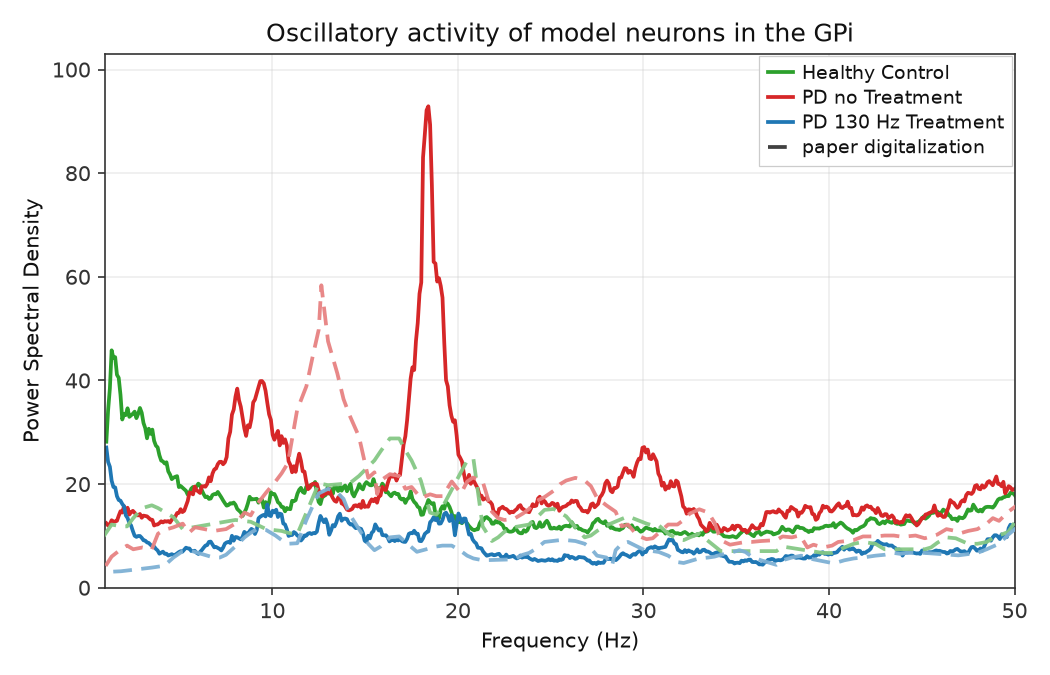
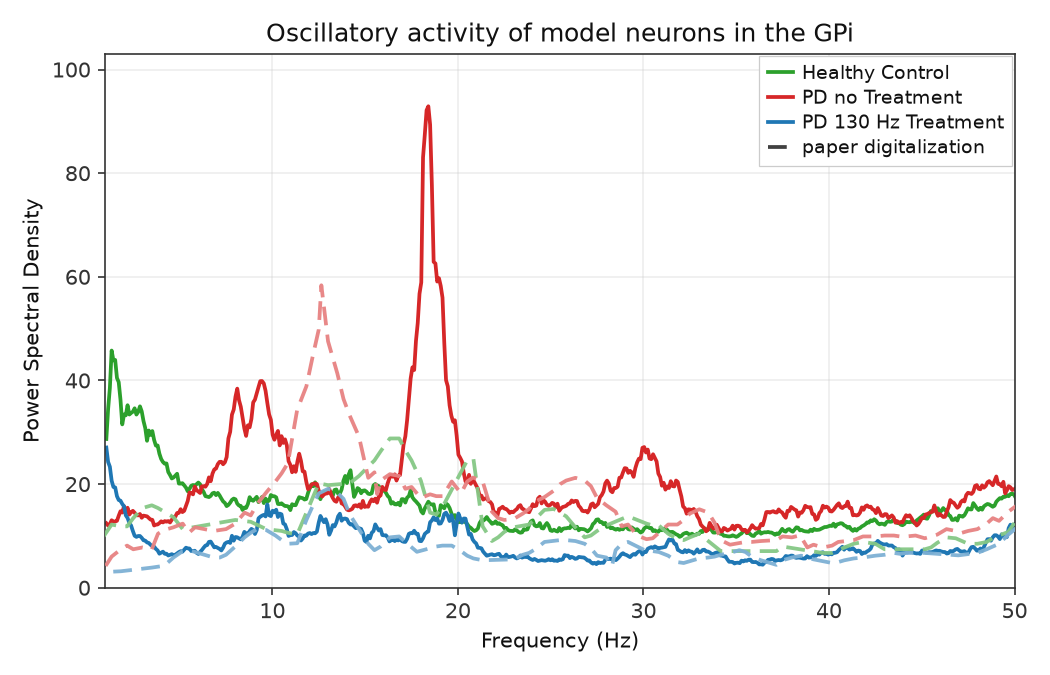
Rerun Mehregan Fig 1b on the healthy-mode init draws (rep v3)
Healthy beta 13.38 -> 13.29 (paper 15.3); the same five gates fail.

diff --git a/figures/mehregan/replications.md b/figures/mehregan/replications.md
@@ -7,7 +7,7 @@ Side-by-side **paper panel** vs **our replication**. Plot scripts write replicat
 <!-- summary:start -->
 | Panel | Description | Status |
 |-------|-------------|--------|
-| Fig 1b | GPi PSD | Fail (`healthy_pd_ratio_near_paper`, rep v2) |
+| Fig 1b | GPi PSD | Fail (`healthy_pd_ratio_near_paper`, rep v3) |
 | Fig 2a | GPi $P_\beta$ time series | Pass (rep v1) |
 | Fig 2b | Error Index time series | Pass (rep v18) |
 | Fig 4a | Training $P_\beta$ vs step | Pass (paper Alg. 1, rep v44) |
@@ -32,18 +32,18 @@ Mean GPi multitaper power spectral density (1–50 Hz) for three conditions: **h
 
 ### Replication
 
-![Replication Fig 1b](images/1b/gpi_psd_v2.png)
+![Replication Fig 1b](images/1b/gpi_psd_v3.png)
 
 <!-- caption-1b:start -->
-**Caption:** GPi PSD, 10 s sim, seeds 0–9 mean; β[13–35 Hz] healthy/PD/130 Hz = 13.4/22.2/8.1 (paper 15.3/17.7/7.9); PD peak 19 Hz (paper 13), v2, 2026-10-17
+**Caption:** GPi PSD, 10 s sim, seeds 0–9 mean; β[13–35 Hz] healthy/PD/130 Hz = 13.3/22.2/8.1 (paper 15.3/17.7/7.9); PD peak 19 Hz (paper 13), v3, 2026-10-18
 
 **Manifest:** `artifacts/figures/papers/mehregan/1b/manifest.json`
 <!-- caption-1b:end -->
 
-**Status:** Fail (upgraded gates, fresh run rep v2, Oct 17 2026) — beta-band ordering and the 130 Hz and healthy levels match (β healthy / PD / 130 Hz 13.4 / 22.2 / 8.1 vs paper 15.3 / 17.7 / 7.9), but our PD spectrum peaks at 18.5 Hz vs the paper's 12.6 Hz and its shape correlates poorly (r 0.19), the healthy/PD ratio sits at the 30% edge, and healthy / 130 Hz carry excess 1–12 Hz power. Seven spectral estimators (`scripts/probes/mehregan_fig1b_estimator.py`) and four candidate readings (`--dt-ms 0.02`, `--transient-s` on 30 s, seed 0 only, `--signal voltage`) all keep the PD peak at 18.4–18.8 Hz, so the gap is in our plant's PD dynamics, not the estimator or protocol — an author question.
+**Status:** Fail (upgraded gates, fresh run rep v3, Oct 18 2026, healthy runs now on pd=0 init draws) — beta-band ordering and the 130 Hz and healthy levels match (β healthy / PD / 130 Hz 13.3 / 22.2 / 8.1 vs paper 15.3 / 17.7 / 7.9), but our PD spectrum peaks at 18.5 Hz vs the paper's 12.6 Hz and its shape correlates poorly (r 0.19), the healthy/PD ratio sits at the 30% edge, and healthy / 130 Hz carry excess 1–12 Hz power. Seven spectral estimators (`scripts/probes/mehregan_fig1b_estimator.py`) and four candidate readings (`--dt-ms 0.02`, `--transient-s` on 30 s, seed 0 only, `--signal voltage`) all keep the PD peak at 18.4–18.8 Hz, so the gap is in our plant's PD dynamics, not the estimator or protocol — an author question.
 
 <!-- gates-1b:start -->
-**Gates set** (`fig1b_gates` → manifest `gates` / `gates_pass`). Overall **`gates_pass`**: no (from `artifacts/figures/papers/mehregan/1b/curves.json`, 2026-10-17). Every row is required for exit.
+**Gates set** (`fig1b_gates` → manifest `gates` / `gates_pass`). Overall **`gates_pass`**: no (from `artifacts/figures/papers/mehregan/1b/curves.json`, 2026-10-18). Every row is required for exit.
 
 | Key | Description | Pass |
 |-----|-------------|------|
@@ -92,7 +92,7 @@ GPi beta-band power ($P_\beta$, Eq. 1, 13–35 Hz) over **12 s**: **PD no treatm
 **Status:** Pass — every upgraded gate (pre-onset level 510 vs paper 478, late ratio 0.35 vs 0.42, half-drop 2.76 s vs 2.90 s, treated and gap shape r ≥ 0.7). Since Oct 17 2026 the traces come from the Fig 5a eval protocol (`--protocol eval`, default): the paper's Fig 2a curves are its Fig 5a "PD no stim" / "Periodic 130Hz" curves (r 0.987 / 0.999), so ours are now identical to our Fig 5a no-stim / 130 Hz traces. `--protocol single` keeps the earlier 14 s integrate. Single seed (0).
 
 <!-- gates-2a:start -->
-**Gates set** (`fig2_time_gates`, panel `2a`). Overall **`gates_pass`**: yes (from `artifacts/figures/papers/mehregan/2a/series.json`, 2026-10-17). Every row is required for exit.
+**Gates set** (`fig2_time_gates`, panel `2a`). Overall **`gates_pass`**: yes (from `artifacts/figures/papers/mehregan/2a/series.json`, 2026-10-18). Every row is required for exit.
 
 | Key | Description | Pass |
 |-----|-------------|------|
@@ -142,7 +142,7 @@ Windowed Error Index (EI, Eq. 2) over **12 s** with **So-style SMC pulses into T
 **Status:** Pass — every upgraded gate on a fresh run of the current plant (rep v18, Oct 17 2026). The earlier failure (pre-onset EI 0.33 vs paper 0.25) came from a cached July series replotted under the new gates; plant changes since then moved the EI trace. Eight candidate readings (thalamic baseline kept, T_ω 1 s / 4 s, periodic or 10 / 20 Hz SMC timing, 15 / 40 ms misfire windows) did not beat the shipped convention. Single seed (0).
 
 <!-- gates-2b:start -->
-**Gates set** (`fig2_time_gates`, panel `2b`). Overall **`gates_pass`**: yes (from `artifacts/figures/papers/mehregan/2b/series.json`, 2026-10-17). Every row is required for exit.
+**Gates set** (`fig2_time_gates`, panel `2b`). Overall **`gates_pass`**: yes (from `artifacts/figures/papers/mehregan/2b/series.json`, 2026-10-18). Every row is required for exit.
 
 | Key | Description | Pass |
 |-----|-------------|------|
@@ -197,7 +197,7 @@ Per-step GPi beta-band power during DDPG training of the **45 Hz** model (§IV.A
 **Status:** Pass — every upgraded gate (rep v44). Recipe: Fig 3c reward, one plant network per episode, exact-rate 21-pattern menu, regular-pulse init bias 1.0, and Alg. 1's "update frequency" read as one update every 2nd step (`update_every=2`, agreed with the maintainer; one update every step converges by episode 3). Episode means 0.446 0.473 0.512 0.464 0.391 0.388 0.394 0.363 0.337 0.402 vs paper 0.507 0.506 0.464 0.477 0.445 0.397 0.382 0.375 0.372 0.374 — the paper's gradual five-episode fall. Seed spread: seeds 0 and 1 pass, seed 2 fails. Details: [4a.md](../../docs/figures/mehregan/4a.md) § Candidate readings.
 
 <!-- gates-4a:start -->
-**Gates set** (`fig4a_gates` → live `series.json`). Overall **`gates_pass`**: yes (from `artifacts/figures/papers/mehregan/4a/series.json`, 2026-10-17). Every row is required for exit.
+**Gates set** (`fig4a_gates` → live `series.json`). Overall **`gates_pass`**: yes (from `artifacts/figures/papers/mehregan/4a/series.json`, 2026-10-18). Every row is required for exit.
 
 | Key | Description | Pass |
 |-----|-------------|------|
@@ -253,7 +253,7 @@ Episode **total reward** and **episode-mean PSD(x10³)** of the same **45 Hz** t
 **Status:** Fail (rep v51) — `early_reward_near_paper`, `reward_floor_not_deeper`; every other gate passes (reward rise, late plateau, late PSD, PSD shape, per-episode PSD). Rewards −94 −99 −159 −131 −22 −10 −10 −3 −0 −12 vs paper ≈ −81 −79 −43 −55 −16 … −2.4: episodes 2–3 explore beta-raising menu patterns (bursts of 2–3 pulses repeat at 22.5 / 15 Hz, inside the beta band; `artifacts/probes/mehregan_landscape_45_burst21.json`), so the quadratic penalty runs deeper than the paper's.
 
 <!-- gates-4b:start -->
-**Gates set** (`fig4b_gates` → Fig 4a `series.json` (10 episodes)). Overall **`gates_pass`**: no (from `artifacts/figures/papers/mehregan/4a/series.json`, 2026-10-17). Every row is required for exit.
+**Gates set** (`fig4b_gates` → Fig 4a `series.json` (10 episodes)). Overall **`gates_pass`**: no (from `artifacts/figures/papers/mehregan/4a/series.json`, 2026-10-18). Every row is required for exit.
 
 | Key | Description | Pass |
 |-----|-------------|------|
@@ -308,7 +308,7 @@ Post-training evaluation of the **45 Hz** model (§IV.A.2) on a fixed seed: 2 s 
 **Status:** Pass — every upgraded gate (rep v26). Evaluates the Fig 4a checkpoint (the paper's one 45 Hz model); the policy plays burst pattern 19: trained 379, periodic 45 Hz 307, no stim 486, 130 Hz 169 (late means, t ≥ 4 s); trained/no-stim 0.78 vs paper 0.81.
 
 <!-- gates-5a:start -->
-**Gates set** (`efficacy_gates` / `fig5_efficacy_gates` → `eval.json`). Overall **`pass`**: yes (from `artifacts/figures/papers/mehregan/5a/eval.json`, 2026-10-17). Every row is required for exit.
+**Gates set** (`efficacy_gates` / `fig5_efficacy_gates` → `eval.json`). Overall **`pass`**: yes (from `artifacts/figures/papers/mehregan/5a/eval.json`, 2026-10-18). Every row is required for exit.
 
 | Key | Description | Pass |
 |-----|-------------|------|
@@ -359,7 +359,7 @@ Same closed-loop eval for the **30 Hz** model (§IV.A.2), trained with the Fig 4
 **Status:** Pass — every upgraded gate (rep v27). Trained 378 < no stim 486 < periodic 30 Hz 638; the 30 Hz model plays burst pattern 14 (clusters with silence — instantaneous rate outside the beta band, as the paper argues).
 
 <!-- gates-5b:start -->
-**Gates set** (`efficacy_gates` / `fig5_efficacy_gates` → `eval.json`). Overall **`pass`**: yes (from `artifacts/figures/papers/mehregan/5b/eval.json`, 2026-10-17). Every row is required for exit.
+**Gates set** (`efficacy_gates` / `fig5_efficacy_gates` → `eval.json`). Overall **`pass`**: yes (from `artifacts/figures/papers/mehregan/5b/eval.json`, 2026-10-18). Every row is required for exit.
 
 | Key | Description | Pass |
 |-----|-------------|------|
@@ -409,7 +409,7 @@ Quantization on the **45 Hz** model (§IV.A.3), same closed-loop eval and seed. 
 **Status:** Fail (rep v71, 15 QAT training seeds) — fp32 / PTQ fp16 / PTQ int8 all 379 (every fp32 level/onset/shape gate passes). PTQ is byte-identical to fp32 (the menu argmax never flips), so `ptq_*_alters_trace` fail: the paper's PTQ traces differ from fp32 by 22 / 28 PSD units with the same mean. QAT: 1/15 seeds paper-like; 14/15 deploy the regular 45 Hz train (late/pre 0.60 vs paper 0.995) — 10-episode int8 QAT saturates its fake-quant head and never learns, so the tie keeps the regular-pulse init, which suppresses at 45 Hz. Root cause: the menu action space; the per-pulse head of Figure 3a cannot learn Fig 4a under Alg. 1 (open question). [4a.md](../../docs/figures/mehregan/4a.md) § Fig 3a per-pulse head — bounded probe.
 
 <!-- gates-6a:start -->
-**Gates set** (`fig6_quant_gates` → `eval.json`). Overall **`all_pass`**: no (from `artifacts/figures/papers/mehregan/6a/eval.json`, 2026-10-17). Every row is required for exit.
+**Gates set** (`fig6_quant_gates` → `eval.json`). Overall **`all_pass`**: no (from `artifacts/figures/papers/mehregan/6a/eval.json`, 2026-10-18). Every row is required for exit.
 
 | Key | Description | Pass |
 |-----|-------------|------|
@@ -466,7 +466,7 @@ Same quantization panel for the **30 Hz** model (§IV.A.3): Fig 5b fp32 checkpoi
 **Status:** Fail (rep v49, 15 QAT training seeds) — fp32 / PTQ fp16 / PTQ int8 all 378; PTQ byte-identical to fp32 (`ptq_*_alters_trace` fail). QAT: 2/15 seeds paper-like (the ones that keep the regular 30 Hz train, which raises beta as the paper's QAT does); median late/pre 0.68 vs paper 0.974. Same action-space root cause as Fig 6a.
 
 <!-- gates-6b:start -->
-**Gates set** (`fig6_quant_gates` → `eval.json`). Overall **`all_pass`**: no (from `artifacts/figures/papers/mehregan/6b/eval.json`, 2026-10-17). Every row is required for exit.
+**Gates set** (`fig6_quant_gates` → `eval.json`). Overall **`all_pass`**: no (from `artifacts/figures/papers/mehregan/6b/eval.json`, 2026-10-18). Every row is required for exit.
 
 | Key | Description | Pass |
 |-----|-------------|------|
